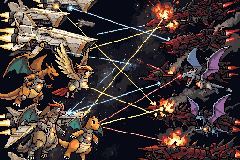
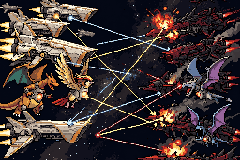
feat: cinematic

diff --git a/src/cinematic.c b/src/cinematic.c
@@ -58,6 +58,8 @@ struct CinematicScene
 
 static const u32 sGfx_p1_01[] = INCBIN_U32("graphics/cinematic/p1_01.8bpp.lz");
 static const u16 sPal_p1_01[] = INCBIN_U16("graphics/cinematic/p1_01.gbapal");
+static const u32 sGfx_p1_02[] = INCBIN_U32("graphics/cinematic/p1_02.8bpp.lz");
+static const u16 sPal_p1_02[] = INCBIN_U16("graphics/cinematic/p1_02.gbapal");
 static const u32 sGfx_p1_03[] = INCBIN_U32("graphics/cinematic/p1_03.8bpp.lz");
 static const u16 sPal_p1_03[] = INCBIN_U16("graphics/cinematic/p1_03.gbapal");
 static const u32 sGfx_p1_04[] = INCBIN_U32("graphics/cinematic/p1_04.8bpp.lz");
@@ -182,6 +184,7 @@ static const struct CinematicScene sIntroScenes[] =
 {
     { IMG(p1_01), .duration = 70, .fadeDelay = 1 },
     { IMG(p1_03), .duration = 70 },
+    { IMG(p1_02), .duration = 80, .effect = FX_FLASHES },
     { IMG(p1_04), .duration = 150, .effect = FX_GENGAR_ATTACK },
     { IMG(p1_05), .duration = 70, .effect = FX_RED_PULSE },
     { IMG(p1_07), .duration = 70, .effect = FX_RED_FLASH },

diff --git a/CINEMATICA_EN.md b/CINEMATICA_EN.md
@@ -152,6 +152,56 @@ EXPORT: p1_03.aseprite, p1_03_bg.png, p1_03_reticle.png, p1_03_eye.png, p1_03_ba
 p1_03.json
 ```
 
+### `p1_02` — The war
+
+The galactic war: two fleets and the Pokémon biosuits fighting between them. In-game: white flashes on the
+explosions.
+
+```text
+Create a 5-second layered pixel-art animation in Aseprite for a Game Boy Advance intro.
+
+STYLE: 16-bit pixel art, Game Boy Advance era cinematic, limited palette, clean readable silhouettes, dramatic
+lighting, no text, no logos.
+CANVAS: 240x160 px, 1x scale, Indexed colour mode, no anti-aliasing, no semi-transparency.
+TIMING: 5.0 s total (300 GBA frames). Frame durations in multiples of 1/60 s (50 ms or 100 ms).
+
+SCENE (layer BG, one static cel, max 224 colours, indices 0-223):
+A vast orbital battle seen from a cinematic wide vantage: on the left a wedge of angular white-and-gold warships
+with clean beveled hulls, on the right a mirroring wedge of crimson-and-black vessels bristling with dark armor
+plating, both fleets trading crisscrossing beams of laser fire across the dark starfield between them. Armored
+Charizard, Pidgeot and Dragonite with plated hide and faint glowing mechanical seams fly in formation down the left
+channel, wings spread, while Aerodactyl and Golbat wheel through the smoke on the right; each creature's chest core
+glows a hot bright point. Fireballs and venting atmosphere bloom in the background, dramatic rim lighting, deep
+shadows, muted limited palette, no text, no logos, 3:2 composition with the two fleets framing the open space lane
+down the middle.
+
+ANIMATED LAYERS (each sprite: index 0 transparent + max 15 colours; max 4 sprite palettes in total):
+1. SPR_charizard - 64x64 box, 4 frames x 100 ms, loop (wing-flap cycle). A Charizard biosuit: armored
+   biomechanical Charizard, white-gold plated armour, orange wing membranes, plated joints, glowing blue core in
+   the chest, flame-thruster tail. Flying to the right. Keyframes: (-64,40) at 0.0 s, (88,52) at 2.5 s,
+   (240,30) at 5.0 s.
+2. SPR_aerodactyl - 64x32 box, 4 frames x 100 ms, loop. An Aerodactyl biosuit: armored biomechanical Aerodactyl,
+   crimson-black plates, red glowing chest core. Flying to the left. Keyframes: (240,96) at 0.5 s, (120,84) at
+   2.8 s, (-64,70) at 5.0 s.
+3. SPR_laser - 32x8 box, 2 frames x 50 ms, loop. A bright bolt with a 1 px white core and a coloured glow; gold
+   for the white-gold side, red for the crimson side (2 palette variants). Bolts shoot across the corridor at
+   0.8 s, 1.6 s, 2.4 s, 3.2 s and 4.0 s, each one crossing in 0.4 s.
+4. SPR_explosion - 32x32 box, 8 frames x 50 ms, one-shot. A white core, an orange fireball, then a smoky ring and
+   debris. Plays at (136,56) at 1.5 s, at (76,30) at 3.0 s and at (170,108) at 4.2 s.
+
+TIMELINE:
+0.0 s - the fleets hold position; the Charizard biosuit enters from the left.
+0.5 s - the Aerodactyl biosuit enters from the right.
+1.5 s - explosion 1. Engine: white flash (4 frames).
+2.5 s - the two biosuits cross in the middle.
+3.0 s - explosion 2. Engine: white flash.
+4.2 s - explosion 3. Engine: white flash.
+5.0 s - end.
+
+EXPORT: p1_02.aseprite, p1_02_bg.png, p1_02_charizard.png, p1_02_aerodactyl.png, p1_02_laser.png,
+p1_02_explosion.png, p1_02.json
+```
+
 ### `p1_04` — The boarded ship
 
 The white-gold flagship is boarded. In-game: Gengar attacks the ship, as in the original FireRed intro (the same

diff --git a/CINEMATICA.md b/CINEMATICA.md
@@ -58,6 +58,12 @@ salta directamente al título.
 
 **Efecto en el juego:** ninguno.
 
+### `p1_02.png` — La guerra
+
+**Prompt:** Orbital space battle, two fleets of angular warships (one white-gold, one crimson-black) exchanging laser fire, armored Pokémon flying between the ships (Charizard, Pidgeot and Dragonite on the white-gold side; Aerodactyl and Golbat on the crimson-black side), their chest cores glowing, explosions.
+
+**Efecto en el juego:** destellos blancos.
+
 ### `p1_04.png` — La nave abordada
 
 **Prompt:** Huge damaged white-gold flagship in high orbit, hull breached and burning, crimson-black boarding pods latched onto its side, floating debris.
